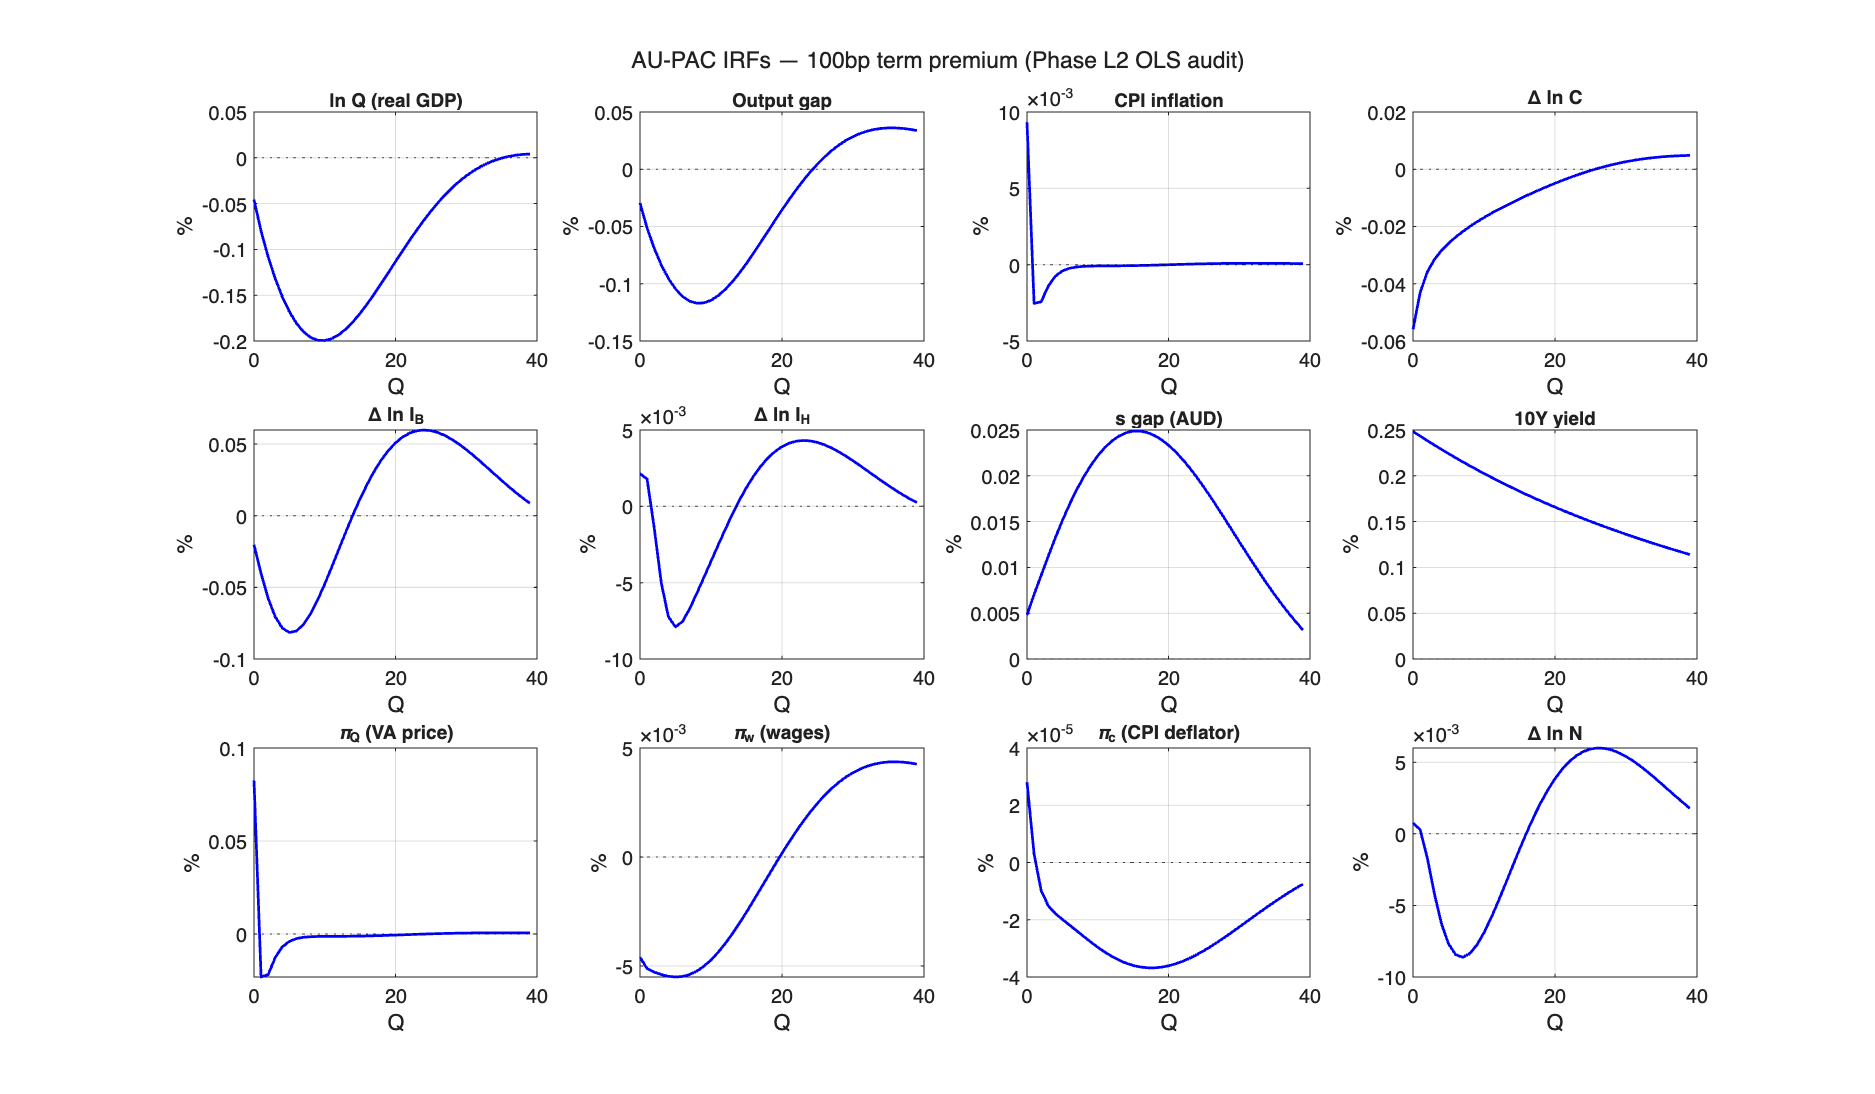
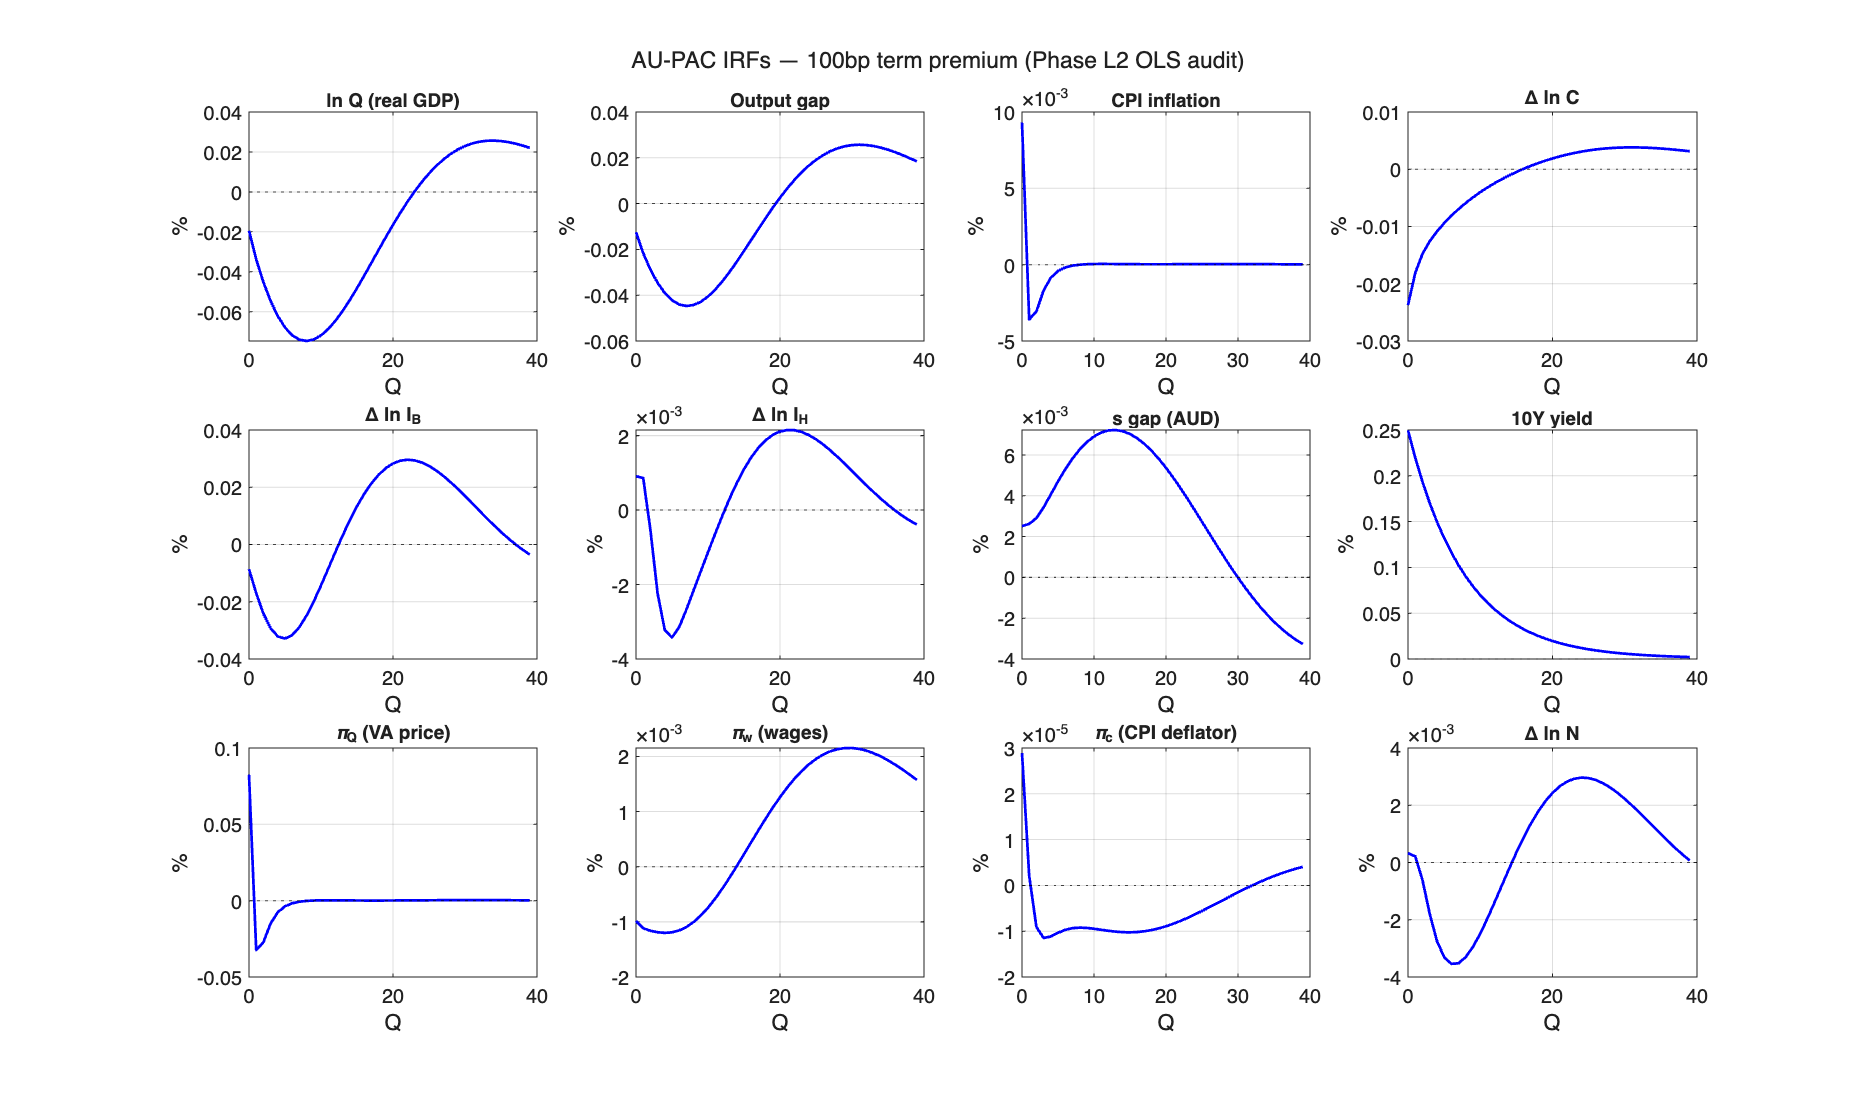
wave2: estimate term-premium persistence rho_tp from AU data (was calibrated)
First Wave 2 calibrated->estimated closure. The financial block is otherwise fully
calibrated; the audit flagged the persistences as AR(1)-estimable on AU data.

rho_tp (term-premium persistence, eq 'tp'): estimated by AR(1) OLS on the consistent-
unit AU term spread (au_i10/4 - au_irate; the 10y series is annual %, the cash rate is
quarterly % = model units, hence the /4). rho_tp = 0.8807 (se 0.040, t=22, R2=0.79,
N=127, 1993Q1-2024Q4) vs the calibrated 0.98 — AU term premia mean-revert faster.
Written back verbatim per the OLS-over-calibration convention. tp_ss left calibrated
(the term premium is latent vs the observable spread; the sample-mean spread ~0.125q is
recorded in results_financial.txt for a future steady-state recalibration).

New reproducible estimator: data/pac_blocks/estimate_financial_persistence.m (also
documents why rho_s / rho_lh / spread persistences are deferred — they need the forward
UIP structure or AU mortgage/spread series, not a clean single-series AR(1)).

Validation: BK preserved (5 explosive eig, max|eig|=1.087). The 100bp MONETARY IRF is
unchanged (rho_tp drives only the eps_tp term-premium-shock response, not eps_i); the
term-premium-shock IRF reverts faster, consistent with the lower persistence. Refreshed
paper_irf_peaks.txt + irf_eps_tp_v3.png accordingly.

diff --git a/data/pac_blocks/estimate_financial_persistence.m b/data/pac_blocks/estimate_financial_persistence.m
@@ -1,0 +1,51 @@
+% estimate_financial_persistence.m — Wave 2: AU-data estimation of financial-block
+% persistences that the production model currently calibrates.
+%
+% Cleanly identified here (single-series AR(1), units reconciled):
+%   rho_tp  — term-premium persistence, eq 'tp': tp = rho_tp*tp(-1) + (1-rho_tp)*tp_ss + eps_tp
+%
+% UNIT NOTE (critical): dataset.csv au_irate is QUARTERLY %% (mean 1.049 = model i_ss),
+% extended_dataset.csv au_i10 is ANNUAL %% (mean ~4.86). The consistent-unit term
+% spread is therefore (au_i10/4 - au_irate). The AR(1) persistence is scale-invariant,
+% but the spread LEVEL (hence tp_ss) requires the /4 conversion.
+%
+% Deferred (need more than a clean single-series AR(1)):
+%   rho_s     — s_gap has forward UIP (pv_i_uip) + inflation-diff terms; a bare AR(1) is misspecified.
+%   rho_lh    — needs an AU mortgage-rate series (RBA F6/F16) parsed to quarterly.
+%   rho_COE/BBB/LB_firms — need AU equity-cost / corporate-spread series.
+
+here   = fileparts(mfilename('fullpath'));
+root   = fileparts(fileparts(here));
+ds     = readtable(fullfile(root,'dataset.csv'));
+ext    = readtable(fullfile(root,'data','extended_dataset.csv'));
+
+% align on date, drop missing
+ds.date  = datetime(ds.date);
+ext.date = datetime(ext.date);
+T = innerjoin(ds(:,{'date','au_irate'}), ext(:,{'date','au_i10'}), 'Keys','date');
+T = T(~isnan(T.au_irate) & ~isnan(T.au_i10), :);
+
+tp_proxy = T.au_i10/4 - T.au_irate;          % consistent quarterly %% term spread
+
+% AR(1) OLS: y_t = c + rho*y_{t-1}
+y = tp_proxy(2:end); x = [ones(numel(y),1) tp_proxy(1:end-1)];
+b = x\y; resid = y - x*b;
+n = numel(y); s2 = (resid'*resid)/(n-2); V = s2*inv(x'*x);
+rho_tp = b(2); se = sqrt(V(2,2)); tstat = rho_tp/se;
+tp_ss_implied = b(1)/(1-rho_tp);             % sample-mean term spread (quarterly %%)
+resid_sd = std(resid); R2 = 1 - (resid'*resid)/sum((y-mean(y)).^2);
+
+fid = fopen(fullfile(here,'results_financial.txt'),'w');
+w = @(varargin) fprintf(fid,varargin{:}) + fprintf(varargin{:});
+w('Financial-block persistence — AU single-equation OLS (Wave 2, %s)\n', datestr(now));
+w('Sample: %s..%s, N=%d (after 1 lag)\n', datestr(T.date(1),'yyyyQQ'), datestr(T.date(end),'yyyyQQ'), n);
+w('\n[tp] term-premium persistence  tp = rho_tp*tp(-1) + (1-rho_tp)*tp_ss + eps_tp\n');
+w('  tp proxy = au_i10/4 - au_irate (quarterly %%)\n');
+w('  rho_tp      = %.4f   (se %.4f, t=%.1f)   [model calibrated: 0.98]\n', rho_tp, se, tstat);
+w('  tp_ss(impl) = %.4f q  (= sample-mean spread; model calibrated: 0.30)\n', tp_ss_implied);
+w('  resid_sd    = %.4f    R2 = %.3f\n', resid_sd, R2);
+w('\nWRITEBACK: rho_tp = %.4f (dynamic coef, AU-identified). tp_ss LEFT calibrated\n', rho_tp);
+w('  (the term premium is latent vs the observable spread; the sample-mean spread\n');
+w('   %.3f is recorded for a future steady-state recalibration of tp_ss).\n', tp_ss_implied);
+fclose(fid);
+fprintf('Wrote results_financial.txt: rho_tp = %.4f (t=%.1f, R2=%.3f, N=%d)\n', rho_tp, tstat, R2, n);